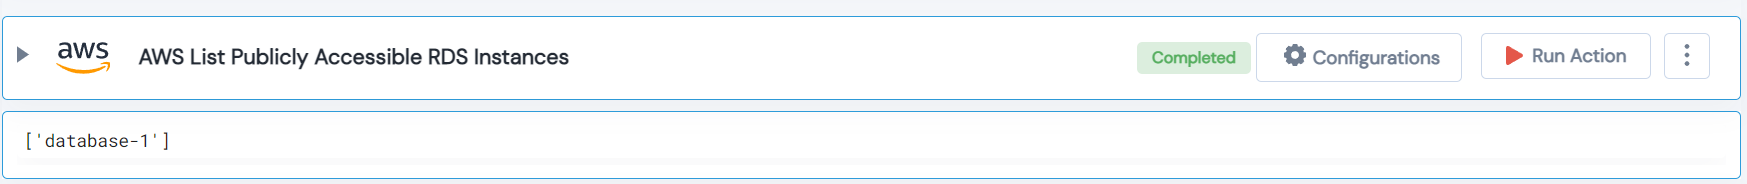
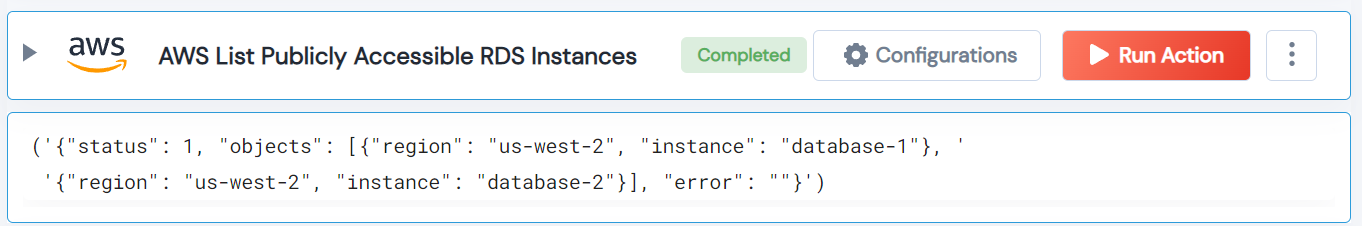
Check Action: AWS List Publicly Accessible RDS Instances

diff --git a/AWS/legos/aws_get_publicly_accessible_db_instances/aws_get_publicly_accessible_db_instances.py b/AWS/legos/aws_get_publicly_accessible_db_instances/aws_get_publicly_accessible_db_instances.py
@@ -3,7 +3,8 @@
 ##  All rights reserved.
 ##
 from pydantic import BaseModel, Field
-from typing import Optional, List, Tuple
+from typing import Optional
+from unskript.legos.utils import CheckOutput, CheckOutputStatus
 from unskript.legos.aws.aws_list_all_regions.aws_list_all_regions import aws_list_all_regions
 from unskript.connectors.aws import aws_get_paginator
 import pprint
@@ -19,10 +20,10 @@ class InputSchema(BaseModel):
 def aws_publicly_accessible_db_instances_printer(output):
     if output is None:
         return
-    pprint.pprint(output)
+    pprint.pprint(output.json())
 
 
-def aws_publicly_accessible_db_instances(handle, region: str = "") -> Tuple:
+def aws_publicly_accessible_db_instances(handle, region: str = "") -> CheckOutput:
     """aws_publicly_accessible_db_instances Gets all publicly accessible DB instances
 
         :type handle: object
@@ -31,7 +32,7 @@ def aws_publicly_accessible_db_instances(handle, region: str = "") -> Tuple:
         :type region: string
         :param region: Region of the RDS.
 
-        :rtype: Tuple with execution result and publicly accessible RDS instances.
+        :rtype: CheckOutput with status result and list of publicly accessible RDS instances.
     """
     result = []
     all_regions = [region]
@@ -49,8 +50,7 @@ def aws_publicly_accessible_db_instances(handle, region: str = "") -> Tuple:
                     result.append(db_instance_dict)
         except Exception as error:
             pass
-    execution_flag = False
-    if len(result) > 0:
-        execution_flag = True
-    output = (execution_flag, result)
-    return output
+        
+    return CheckOutput(status=CheckOutputStatus.SUCCESS,
+                       objects=result,
+                       error=str(""))

diff --git a/AWS/legos/aws_get_alb_listeners_without_http_redirect/aws_get_alb_listeners_without_http_redirect.py b/AWS/legos/aws_get_alb_listeners_without_http_redirect/aws_get_alb_listeners_without_http_redirect.py
@@ -32,7 +32,7 @@ def aws_listeners_without_http_redirect(handle, region: str = "") -> CheckOutput
         :type region: string
         :param region: Region to filter ALB listeners.
 
-        :rtype: CheckOutput of status and result of ALB listeners without HTTP redirection.
+        :rtype: CheckOutput of status result and list of ALB listeners without HTTP redirection.
     """
     result = []
     all_regions = [region]

diff --git a/AWS/legos/aws_get_unhealthy_instances_from_asg/aws_get_unhealthy_instances_from_asg.py b/AWS/legos/aws_get_unhealthy_instances_from_asg/aws_get_unhealthy_instances_from_asg.py
@@ -28,7 +28,7 @@ def aws_filter_unhealthy_instances_from_asg(handle, region: str = "") -> CheckOu
         :type region: string
         :param region: AWS region.
 
-        :rtype: CheckOutput with status and result of a list of unhealthy instances from ASG.
+        :rtype: CheckOutput with status result and list of unhealthy instances from ASG.
     """
     result = []
     all_regions = [region]
